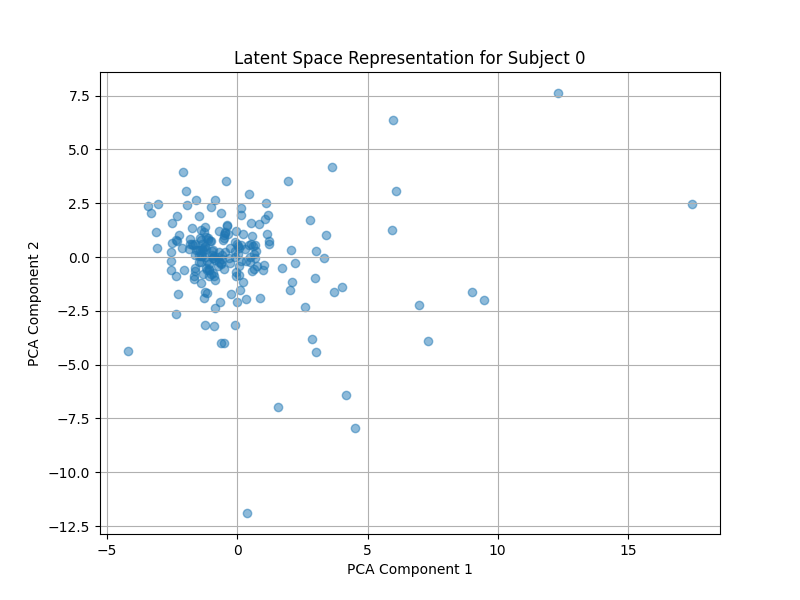
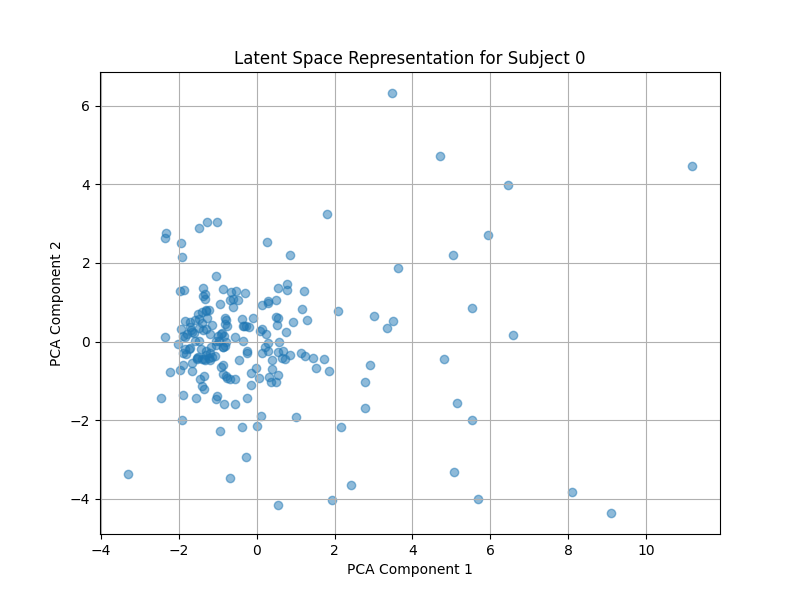
ok

diff --git a/my_latent_sde/my_latent_sde.py b/my_latent_sde/my_latent_sde.py
@@ -12,7 +12,7 @@ class Encoder(nn.Module):
         self.gru = nn.GRU(input_size=input_size, hidden_size=hidden_size, batch_first=True)
         self.project = nn.Sequential(
             nn.Linear(hidden_size, hidden_size),
-            nn.LeakyReLU(),
+            nn.ReLU(),
             nn.Dropout(0.1),
             nn.Linear(hidden_size, latent_size)
         )
@@ -39,7 +39,7 @@ class Decoder(nn.Module):
         self.gru = nn.GRU(input_size=latent_size + 1, hidden_size=hidden_size, batch_first=True)
         self.project = nn.Sequential(
             nn.Linear(hidden_size, hidden_size),
-            nn.LeakyReLU(0.1),
+            nn.ReLU(0.1),
             nn.Dropout(0.1),
             nn.Linear(hidden_size, input_size)
         )
@@ -86,10 +86,10 @@ class LatentSDE(torchsde.SDEIto):
         self.decoder = Decoder(input_size=input_size, hidden_size=hidden_size, latent_size=latent_size)
         self.drift_net = nn.Sequential(
             nn.Linear(latent_size, hidden_size),
-            nn.LeakyReLU(),
+            nn.ReLU(),
             nn.Dropout(0.1),
             nn.Linear(hidden_size, hidden_size),
-            nn.LeakyReLU(),
+            nn.ReLU(),
             nn.Dropout(0.1),
             nn.Linear(hidden_size, latent_size)
         )
